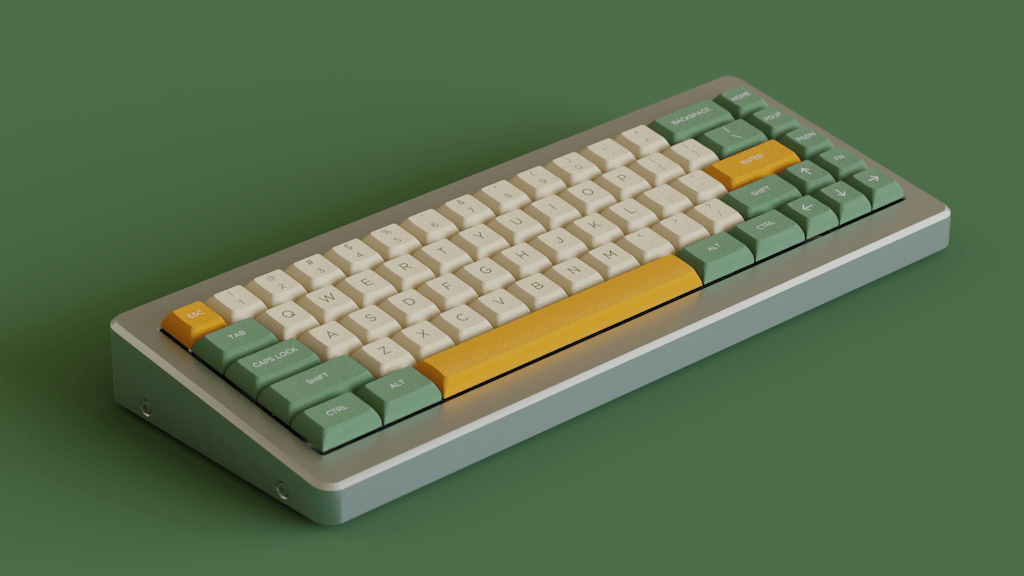
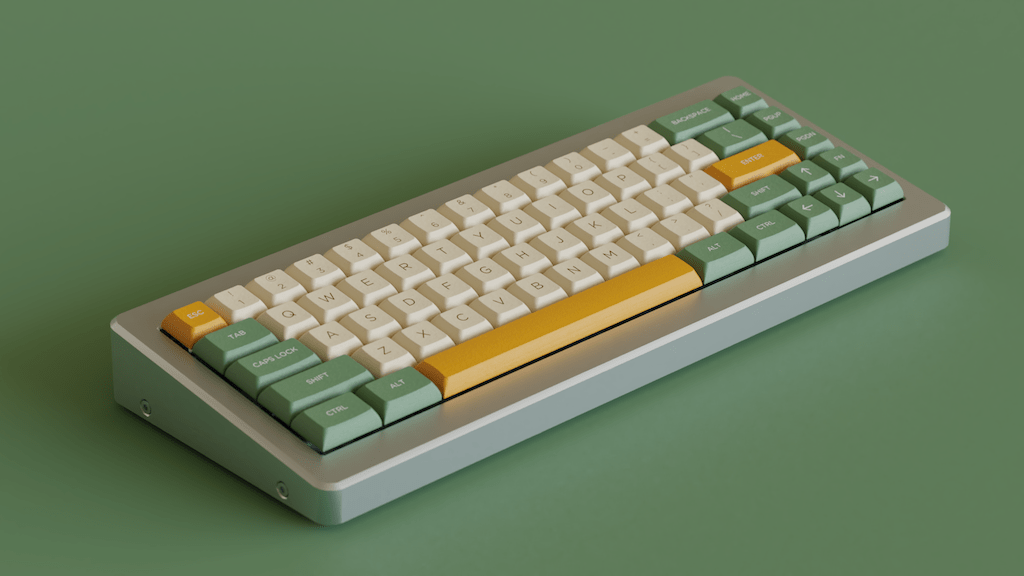
Add freeform option and sample renders

diff --git a/app.py b/app.py
@@ -9,10 +9,12 @@ with open('about.md', 'r') as about_file:
 images = [
     ('GMK Carbon on Mech27, Side View', 'Mech27_Side'),
     ('SA Lunchbar on Espectro, Front View', 'Espectro_Front'),
-    ('GMK Carbon on Mech Mini 2, Top View', 'MM2_Top'),
     ('DSA Lunchbar on M65-A, Side View', 'M65_Side'),
+    ('GMK Carbon on Mech Mini 2, Top View', 'MM2_Top'),
     ('GMK Carbon on Klippe, Front View', 'Klippe_Front'),
-    ('SA Lunchbar on Triangle, Top View', 'Triangle_Top')
+    ('SA Lunchbar on Triangle, Top View', 'Triangle_Top'),
+    ('SA Nantucket Selectric (Freeform), Top View', 'Freeform_Top'),
+    ('SA Space Cadet (Freeform), Front View', 'Freeform_Front')
 ]
 
 # Use same kle templates for SA and DSA profiles
@@ -48,7 +50,7 @@ class OrderForm(flask_wtf.FlaskForm):
         ('Mech27', 'Mech27 (TKL)'),
         ('Espectro', 'Espectro (96%)'),
         ('Triangle', 'Triangle (Full-size)'),
-        ('Freeform', 'Free-form (No case)')
+        ('Freeform', 'Freeform (No case)')
     ])
     profile = wtforms.SelectField('Keycap Profile', choices=[(p, p) for p in ['SA', 'DSA', 'GMK']])
     kle = FileField('Layout JSON', validators=[

diff --git a/about.md b/about.md
@@ -4,7 +4,7 @@ If you're designing a custom set of mechanical keyboard keycaps for a group buy,
 
 ##### How do I use kbrenders?
 
-You should first fill in the form above with a keyboard, and keycap profile for your render, then start editing the provided keyboard-layout-editor template. Keep in mind that arbitrary key layouts, sculpted row profiles, and custom CSS are *not* supported and may cause unexpected results. All SA and DSA layouts are treated as uniform row 3, while GMK layouts always use the standard sculpt. What can be modified are colors and legends, which includes most unicode glyphs and character picker symbols. Custom legend images will also work as long as they take up the entire surface of a keycap. If you are unsure how your legends will render, you can preview exactly how they will look using [kle-render](http://kle-render.herokuapp.com) (kbrenders uses the same code for generating legends). After customizing the template to your satisfaction, download the JSON file from keyboard-layout-editor using the top right button and upload it into the Layout JSON form field. You can also change the camera angle and background color - click on the sample renders for a general idea of what these options do.
+If you want to render with a keyboard case, you should first fill in the form above with the keyboard and keycap profile for your render, then start editing the provided keyboard-layout-editor template. Keep in mind that in this mode, arbitrary key layouts, sculpted row profiles, and custom CSS are *not* supported and may cause unexpected results. All SA and DSA layouts are treated as uniform row 3, while GMK layouts always use the standard sculpt. What can be modified are colors and legends, which includes most unicode glyphs and character picker symbols. Custom legend images will also work as long as they take up the entire surface of a keycap. If you are unsure how your legends will render, you can preview exactly how they will look using [kle-render](http://kle-render.herokuapp.com) (kbrenders uses the same code for generating legends). After customizing the template to your satisfaction, download the JSON file from keyboard-layout-editor using the top right button and upload it into the Layout JSON form field. You can also change the camera angle and background color - click on the sample renders for a general idea of what these options do. Freeform allows you to render arbitrary keyboard-layout-editor layouts without a case, but the restrictions on sculpted row profiles and custom CSS still apply. Furthermore, while all renders with a case should complete within two hours, freeform renders may take much longer, depending on how large and complex your layout is.
 
 ##### What if my layout doesn't render correctly?
 
